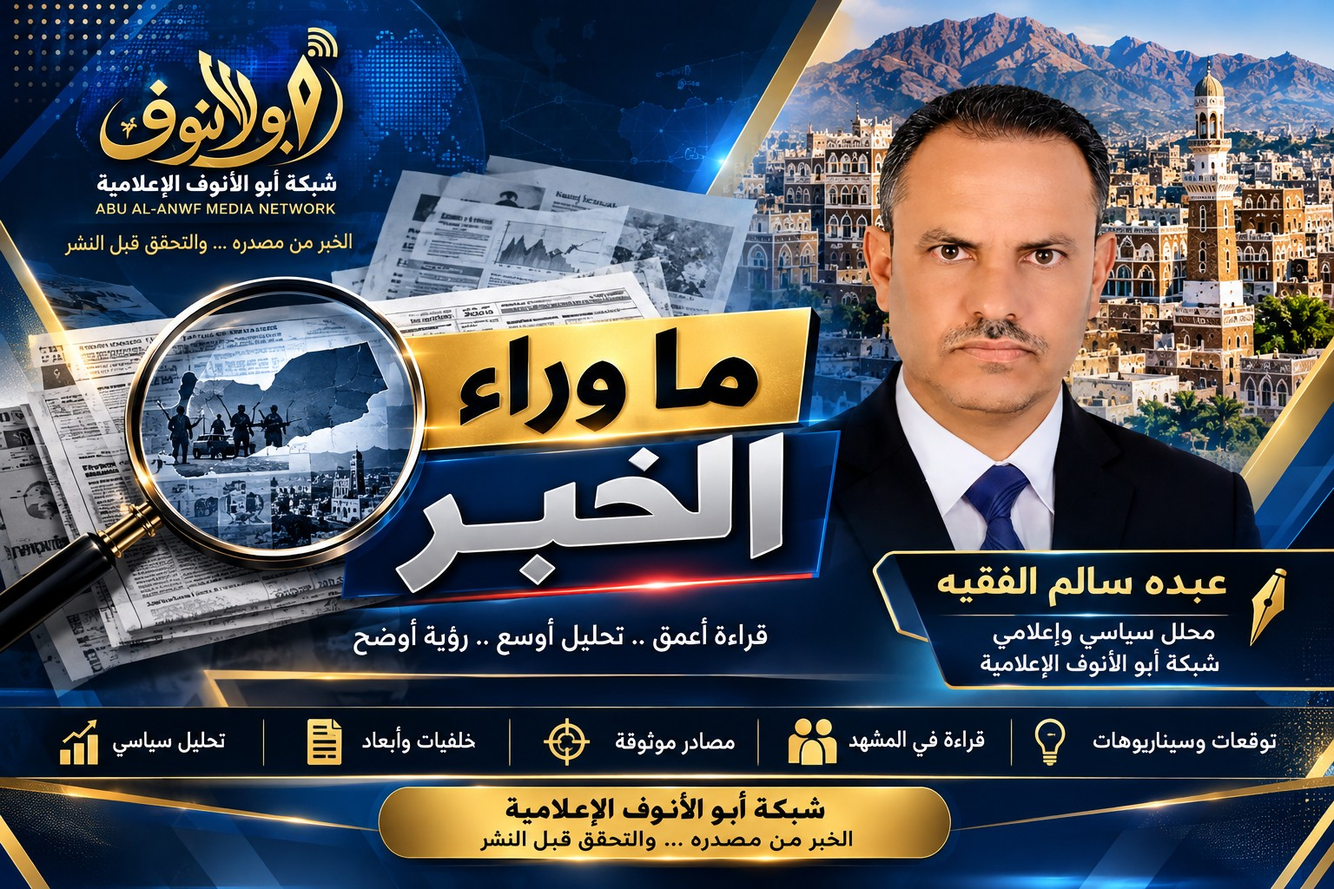
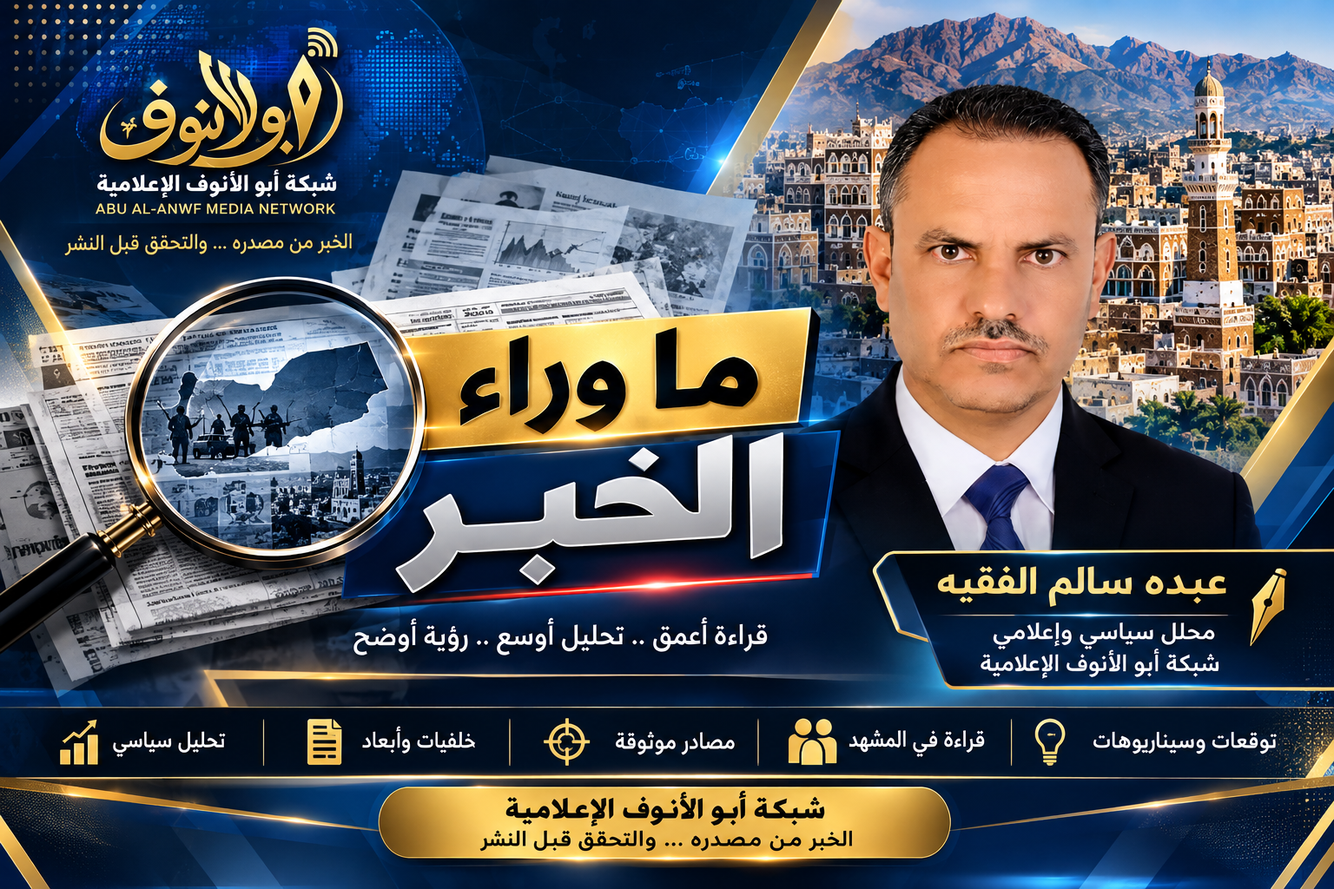
Add files via upload

diff --git a/index.html b/index.html
@@ -1,126 +1,67 @@
 <!doctype html>
 <html lang="ar" dir="rtl">
 <head>
-<meta charset="utf-8">
-<meta name="viewport" content="width=device-width,initial-scale=1">
+<meta charset="utf-8"><meta name="viewport" content="width=device-width,initial-scale=1">
+<title>النشرة اليمنية | الثلاثاء 13 أكتوبر 2026م — شبكة أبو الأنوف الإعلامية</title>
+<meta name="description" content="النشرة اليمنية اليومية لشبكة أبو الأنوف الإعلامية، الثلاثاء 13 أكتوبر 2026م، مع روابط المصادر وسجل التحقق.">
+<meta property="og:title" content="النشرة اليمنية | الثلاثاء 13 أكتوبر 2026م">
+<meta property="og:description" content="أبرز المستجدات اليمنية والمصادر الأصلية والتحقق التحريري.">
+<meta property="og:url" content="https://abwalanwf-wq.github.io/Yemen-news-2026-10-02/">
 <meta name="theme-color" content="#071a29">
-<meta name="description" content="النشرة اليمنية اليومية — شبكة أبو الأنوف الإعلامية: أخبار وتقارير وتحليلات ومصادرها الأصلية.">
-<title>النشرة اليمنية اليومية | شبكة أبو الأنوف الإعلامية</title>
 <style>
-*{box-sizing:border-box}
-body{margin:0;background:#f7f4ec;color:#172b38;font:16px/1.9 Tahoma,Arial,sans-serif}
-.top{background:linear-gradient(130deg,#071a29,#174a68);color:#fff;border-bottom:4px solid #d7b56d;padding:24px 4%}
-.head{max-width:1050px;margin:auto;display:flex;align-items:center;gap:18px}
-.head img{width:104px;height:104px;object-fit:contain;background:#fff;border-radius:12px;padding:4px}
-.head h1{font-size:clamp(24px,4vw,36px);margin:0}
-.head p{margin:3px 0;color:#ead9b1}
-.wrap{max-width:1050px;margin:28px auto;padding:0 4%}
-.hero,.card{background:white;border:1px solid #ded7c7;border-radius:13px;padding:22px;margin-bottom:18px}
-.hero{border-right:5px solid #d7b56d}
-.hero h2{color:#0b2639;margin:0 0 8px;font-size:clamp(22px,4vw,32px)}
-.muted{color:#5e6d75}
-.actions{display:flex;flex-wrap:wrap;gap:10px;margin-top:15px}
-.btn{display:inline-block;background:#0b2639;color:white;padding:10px 16px;border-radius:7px;text-decoration:none;font-weight:bold}
-.btn.gold{background:#8a682e}
-.grid{display:grid;grid-template-columns:repeat(2,minmax(0,1fr));gap:16px}
-.card h3{margin:0 0 8px;color:#0b2639}
-.card a{color:#795b26;font-weight:bold}
-.ad-static{display:block;width:100%;height:auto;max-width:1050px;object-fit:contain;border-radius:12px;border:2px solid #d7b56d;margin:18px auto}footer{background:#071a29;color:#eadfca;padding:20px 4%;text-align:center;border-top:3px solid #d7b56d}
-@media(max-width:650px){
-.grid{grid-template-columns:1fr}
-.head img{width:76px;height:76px}
-}
-</style>
-<script defer src="./ticker.js"></script>
-</head>
-<body>
-<header class="top">
-<div class="head">
-<img src="./abu-al-anouf-logo.png" alt="الشعار الأصلي لشبكة أبو الأنوف الإعلامية">
-<div>
-<h1>النشرة اليمنية اليومية</h1>
-<p>شبكة أبو الأنوف الإعلامية</p>
-<p>صوت الوعي والمسؤولية — وعي يصنع الفرق</p>
-</div>
-</div>
-</header>
-
-<main class="wrap">
-<section class="card" style="text-align:center"><img class="ad-static" src="./issue41-promo-network-fixed (7).jpg" alt="الإعلان الثابت لشبكة أبو الأنوف الإعلامية"></section>
-<section class="hero"><small>الثلاثاء 10 – الخميس 12 نوفمبر 2026م | العدد الجامع (42)</small><h2>العدد الجامع (42) — النشرة اليمنية اليومية</h2><p class="muted">حصاد الأيام الثلاثة، مع الأخبار والتقارير والتحليلات ومصادرها الأصلية.</p><div class="actions"><a class="btn gold" href="./issue-2026-11-10-12-42.html">فتح العدد الجامع 42</a><a class="btn" href="./edition-2026-11-10-12-42.html">النشرة الإلكترونية</a><a class="btn" href="./newspaper-2026-11-10-12-42.html">الصحيفة المصوّرة</a></div></section>
-<section class="hero"><small>الاثنين 9 نوفمبر 2026م | العدد الجامع (41)</small><h2>العدد الجامع — النشرة اليمنية اليومية</h2><p class="muted">تغطية العدد 41، مع الأخبار والتقارير والتحليلات والملفات الخاصة وروابط المصادر الأصلية.</p><div class="actions"><a class="btn gold" href="./issue-2026-11-09-41.html">فتح العدد الجامع 41</a><a class="btn" href="./edition-2026-11-09-41.html">النشرة الإلكترونية</a><a class="btn" href="./newspaper-2026-11-09-41.html">الصحيفة المصوّرة</a></div></section>
-
-<section class="hero">
-<small>العدد السابق | 5–6 نوفمبر 2026م | العدد الجامع (37–38)</small>
-<h2>العدد السابق (37–38)</h2>
-<p class="muted">يمكن الرجوع إلى العدد السابق من خلال الأرشيف.</p>
-<div class="actions"><a class="btn gold" href="./issue-2026-11-05-06-37-38.html">فتح العدد الجامع 37–38</a><a class="btn" href="./archive.html">أرشيف الأعداد</a></div>
-</section>
-<section class="hero">
-<h2>مشاركة العدد والتنقل</h2>
-<p class="muted">استخدم زر المشاركة لإرسال رابط العدد مباشرة عبر تطبيقات الهاتف المتاحة لديك.</p>
-<div class="actions">
-<button class="btn gold" id="shareIssue" type="button" style="border:0;cursor:pointer;font:inherit;font-weight:bold">مشاركة العدد من الهاتف</button>
-<a class="btn" href="./archive.html">أرشيف الأعداد</a>
-<a class="btn" href="./videos.html">مكتبة الفيديوهات</a>
-<a class="btn" href="./live.html">البث المباشر</a>
-</div><p id="shareStatus" class="muted" aria-live="polite"></p>
-</section>
-
-<section class="grid">
-<article class="card">
-<h3>النشرة الإلكترونية</h3>
-<p class="muted">الأخبار والتقارير والتحليلات مع إحالات المصادر الأصلية.</p>
-<a href="./edition-2026-11-09-41.html">فتح العدد الجامع 41 ←</a>
-</article>
-<article class="card" style="text-align:center">
-<h3>الصحيفة اليمنية المصوّرة — العدد 41</h3>
-<a href="./newspaper-2026-11-09-41.html" aria-label="فتح الصحيفة المصوّرة للعدد 41">فتح الصحيفة المصوّرة للعدد 41 كاملة ←</a>
-<p class="muted">تفتح صفحة الصحيفة المصوّرة الخاصة بالعدد مباشرة.</p>
-<a href="./newspaper-2026-11-09-41.html">فتح الصحيفة المصوّرة كاملة ←</a>
-</article>
-</section>
-
-<section class="card">
-<h3>المصادر والتحقق</h3>
-<p class="muted">تُنسب الأرقام والتقارير إلى الجهات التي أعلنتها، ويُفصل بين الخبر والتقدير والتحليل. افتح كل مادة للوصول إلى إحالتها الأصلية.</p>
-</section>
-
-<section class="card" style="text-align:center">
-<h3>ما وراء الخبر</h3>
-<h2>اليمن بين اتساع المواجهة العسكرية ومخاطر تدويل الصراع</h2>
-<p class="muted">قراءة في أثر إغلاق الطرق وتعطل وصول الغذاء والدواء والوقود، ومسؤولية تحويل التحذيرات الإنسانية إلى نتائج ملموسة.</p>
-<a class="btn gold" href="./edition-2026-11-09-41.html#analysis">اقرأ ما وراء الخبر — العدد 41</a>
-</section>
-
-<section class="card" style="text-align:center">
-<h3>دليل المنصات ومشاركة العدد</h3>
-<p class="muted">روابط الدليل تفتح قنوات الشبكة، وأزرار المشاركة ترسل رابط العدد 41 إلى المنصة المختارة.</p>
-<div class="actions" style="justify-content:center">
-<a class="btn" href="https://www.youtube.com/@%D8%A3%D8%A8%D9%88%D8%A7%D9%84%D8%A7%D9%86%D9%88%D9%81" target="_blank" rel="noopener">دليل يوتيوب — قناة الشبكة</a>
-<a class="btn" href="https://t.me/+f0g8Bzx2szJiYmI0" target="_blank" rel="noopener">دليل تيليجرام — قناة الشبكة</a>
-<a class="btn" href="./videos.html">مكتبة الفيديوهات</a>
-<a class="btn" href="./live.html">البث المباشر</a>
-<a class="btn" href="./archive.html">الأرشيف</a>
-<a class="btn" href="./index.html">الموقع الرسمي</a>
-</div>
-<hr style="border:0;border-top:1px solid #ded7c7;margin:18px 0">
-<h3>شارك العدد 41 مباشرة</h3>
-<div class="actions" style="justify-content:center">
-<a class="btn gold" href="https://wa.me/?text=%D8%A7%D9%84%D9%86%D8%B4%D8%B1%D8%A9%20%D8%A7%D9%84%D9%8A%D9%85%D9%86%D9%8A%D8%A9%20%D8%A7%D9%84%D9%8A%D9%88%D9%85%D9%8A%D8%A9%20%E2%80%94%20%D8%A7%D9%84%D8%B9%D8%AF%D8%AF%2041%20https%3A%2F%2Fabwalanwf-wq.github.io%2Fabu-al-anouf%2Fissue-2026-11-09-41.html" target="_blank" rel="noopener">مشاركة واتساب</a>
-<a class="btn" href="https://www.facebook.com/sharer/sharer.php?u=https%3A%2F%2Fabwalanwf-wq.github.io%2Fabu-al-anouf%2Fissue-2026-11-09-41.html" target="_blank" rel="noopener">مشاركة فيسبوك</a>
-<a class="btn" href="https://t.me/share/url?url=https%3A%2F%2Fabwalanwf-wq.github.io%2Fabu-al-anouf%2Fissue-2026-11-09-41.html&text=%D8%A7%D9%84%D8%B9%D8%AF%D8%AF%2041%20%E2%80%94%20%D8%A7%D9%84%D9%86%D8%B4%D8%B1%D8%A9%20%D8%A7%D9%84%D9%8A%D9%85%D9%86%D9%8A%D8%A9" target="_blank" rel="noopener">مشاركة تيليجرام</a>
-<a class="btn" href="https://twitter.com/intent/tweet?text=%D8%A7%D9%84%D9%86%D8%B4%D8%B1%D8%A9%20%D8%A7%D9%84%D9%8A%D9%85%D9%86%D9%8A%D8%A9%20%D8%A7%D9%84%D9%8A%D9%88%D9%85%D9%8A%D8%A9%20%E2%80%94%20%D8%A7%D9%84%D8%B9%D8%AF%D8%AF%2041&url=https%3A%2F%2Fabwalanwf-wq.github.io%2Fabu-al-anouf%2Fissue-2026-11-09-41.html" target="_blank" rel="noopener">مشاركة منصة X</a>
-<button class="btn" id="shareIssue" type="button" style="border:0;cursor:pointer;font:inherit;font-weight:bold">مشاركة عبر الهاتف</button>
-</div><p id="shareStatus" class="muted" aria-live="polite"></p>
-</section>
-</main>
-
-<footer>
-شبكة أبو الأنوف الإعلامية — النشرة اليمنية اليومية<br>
-الخبر من مصدره… والتحقق قبل النشر
-</footer>
-<script>
-(function(){const b=document.getElementById('shareIssue');const status=document.getElementById('shareStatus');if(!b)return;const url='https://abwalanwf-wq.github.io/abu-al-anouf/issue-2026-11-09-41.html';const data={title:'النشرة اليمنية اليومية — العدد 41',text:'شبكة أبو الأنوف الإعلامية — العدد الجامع 41',url};b.addEventListener('click',async()=>{try{if(navigator.share){await navigator.share(data);status.textContent='تم فتح قائمة المشاركة في هاتفك.';}else if(navigator.clipboard&&navigator.clipboard.writeText){await navigator.clipboard.writeText(url);status.textContent='نُسخ رابط العدد؛ يمكنك لصقه في أي تطبيق.';}else{status.textContent='انسخ رابط العدد من شريط العنوان لمشاركته.';}}catch(e){if(e&&e.name==='AbortError')return;status.textContent='تعذرت المشاركة المباشرة؛ يمكنك نسخ رابط العدد ومشاركته.';}});})();
-</script></body>
-</html>
+:root{--navy:#071a29;--blue:#153d59;--gold:#e5bd42;--red:#a21d2b;--paper:#f4f5f7;--ink:#17232e}
+*{box-sizing:border-box}html{scroll-behavior:smooth;scroll-padding-top:12px}
+body{margin:0;background:var(--navy);color:var(--ink);font-family:Arial,Tahoma,sans-serif;line-height:1.9}
+.wrap{max-width:960px;margin:auto;padding:12px}
+.hero,.card{background:var(--paper);border:3px solid var(--gold);border-radius:16px;padding:18px;margin:14px 0}
+.hero{text-align:center;background:var(--blue);color:#fff}.hero h1{color:#f3cb54;margin:4px;font-size:clamp(1.6rem,5vw,2.3rem)}
+.card h2{color:var(--red);margin-top:0}a{color:#075c9b;overflow-wrap:anywhere}
+.btn{display:inline-block;background:var(--blue);color:#fff!important;text-decoration:none;padding:9px 13px;margin:5px 2px;border-radius:10px;font-weight:bold;border:0;cursor:pointer;font:inherit}
+.tag{display:inline-block;color:#765300;background:#fff0bf;padding:2px 10px;border-radius:20px}
+.status{background:#fff4d4;border-right:5px solid var(--gold);padding:12px;border-radius:8px}
+footer{text-align:center;background:var(--blue);color:#fff;padding:18px;border:2px solid var(--gold);border-radius:14px;margin:16px 0}
+li{margin:8px 0}.qr{display:block;width:220px;height:220px;max-width:75%;object-fit:contain;margin:12px auto;background:#fff;padding:8px;border-radius:8px}
+.poster{border:2px solid var(--gold);background:linear-gradient(145deg,#071a29,#153d59);color:white;text-align:center;border-radius:14px;padding:22px}
+.poster h2{color:#f3cb54}.contents a{display:block}
+@media(max-width:600px){.wrap{padding:7px}.hero,.card{padding:13px}.btn{display:block;text-align:center}}
+@media print{body{background:white}.wrap{max-width:none}.btn,.shareline{display:none!important}.hero,.card,footer{break-inside:avoid}}
+</style></head><body><aside id="archive-unavailable" style="background:#fff3cd;color:#17232e;padding:10px;text-align:center;font:16px/1.8 Tahoma">نسخة محفوظة من الأرشيف — <a href="../../../archive.html">العودة إلى الأرشيف الكامل</a></aside><main class="wrap" id="top">
+<header class="hero"><h1>النشرة اليمنية اليومية</h1><strong>الثلاثاء 13 أكتوبر 2026م</strong>
+<p>مستجدات اليمن | الشأن الإنساني | أخبار محلية وإقليمية | تحقق تحريري</p>
+<p><b>شبكة أبو الأنوف الإعلامية</b><br>الخبر من مصدره… والتحقق قبل النشر</p><p>إعداد وتحرير: عبده سالم الفقيه</p></header>
+<section class="card poster"><h2>موجز اليمن اليوم</h2><p><strong>الثلاثاء 13 أكتوبر 2026م</strong></p><p>أخبار موثقة • تفاصيل ومصادر • قراءة وتحليل</p><p><b>شبكة أبو الأنوف الإعلامية</b></p><p>عبده سالم الفقيه</p></section>
+<section class="card"><h2>افتتاحية العدد</h2><p>تتابع نشرة اليوم أبرز التطورات المنشورة بشأن التصعيد الإقليمي المرتبط باليمن، والتطورات الميدانية التي أوردتها وسائل إعلام يمنية، إلى جانب الملفات الإنسانية والمحلية. تُنسب التصريحات والأرقام إلى الجهات التي أعلنتها أو إلى الوسائل التي نقلتها، ولا تُعرض الادعاءات المتنازع عليها بوصفها حقائق مستقلة محسومة.</p><p class="status"><b>تنبيه تحريري:</b> هذه النشرة تجمع تقارير منشورة حتى تاريخ الإصدار. قد تتغير المعلومات مع ورود تحديثات جديدة، ويجب الرجوع إلى المصادر الأصلية قبل إعادة تداول الأرقام أو التصريحات.</p></section>
+<section class="card contents"><h2>فهرس الأخبار — انتقل إلى التفاصيل</h2>
+<a class="btn" href="#riyadh">1. اعتراض صاروخ أُعلن عن إطلاقه باتجاه الرياض</a>
+<a class="btn" href="#khamis">2. تقرير عن اعتراض صاروخين باتجاه خميس مشيط</a>
+<a class="btn" href="#taiz">3. مستجدات المواجهات والأوضاع الإنسانية في تعز</a>
+<a class="btn" href="#migrants">4. حصيلة مأساة قارب المهاجرين قبالة جيبوتي</a>
+<a class="btn" href="#weather">5. تنبيه جوي بشأن الأمطار في عدد من المحافظات</a>
+<a class="btn" href="#analysis">6. ما وراء الخبر | قراءة أبو الأنوف</a></section>
+<article class="card" id="riyadh"><span class="tag">خبر إقليمي</span><h2>تقارير عن اعتراض صاروخ أُعلن عن إطلاقه باتجاه الرياض</h2>
+<p>أوردت وسائل إعلام عربية، الثلاثاء 13 أكتوبر، أن المتحدث باسم التحالف أعلن اعتراض وتدمير صاروخ باليستي قال إنه أُطلق باتجاه الرياض. ونقلت التغطية أيضًا إعلانًا حوثيًا عن استهداف المطار، بينما تبقى تفاصيل الحادثة والمسؤولية عنها منسوبة إلى الجهات التي أصدرت التصريحات والتقارير الناقلة.</p>
+<p class="status"><b>حالة التحقق:</b> خبر منقول عن تصريحات رسمية وتقارير صحفية؛ لا تنسب النشرة هذه التصريحات إلى تحقق ميداني مستقل.</p><h3>المصادر</h3><ul><li><a href="https://www.alaraby.co.uk/politics/اليمن-الحوثيون-يستهدفون-الرياض-وغارات-على-صنعاء-والجوف" target="_blank" rel="noopener">العربي الجديد — تقرير 13 أكتوبر 2026</a></li><li><a href="https://www.reuters.com/world/middle-east/yemens-houthis-renew-warning-over-saudi-airports-after-deadly-riyadh-attack-2026-10-11/" target="_blank" rel="noopener">رويترز — تغطية الهجمات على مطار الرياض، 11 أكتوبر</a></li></ul><a class="btn" href="#top">العودة إلى فهرس النشرة ↑</a></article>
+<article class="card" id="khamis"><span class="tag">خبر محلي / إقليمي</span><h2>يمن مونيتور: التحالف يعلن اعتراض صاروخين باتجاه خميس مشيط</h2>
+<p>نشر موقع يمن مونيتور في 13 أكتوبر خبرًا ينقل إعلان المتحدث باسم التحالف اعتراض وتدمير صاروخين باليستيين قالت القوات إنها أُطلقت باتجاه خميس مشيط. وتورد النشرة الخبر بصيغة الإسناد إلى الجهة المعلنة، من دون إضافة تفاصيل غير واردة في المصدر.</p><p class="status"><b>حالة التحقق:</b> تصريح منقول في تقرير صحفي؛ يُرجى مراجعة المصدر لأي تحديث لاحق.</p><h3>المصدر</h3><ul><li><a href="https://www.yemenmonitor.com/news" target="_blank" rel="noopener">يمن مونيتور — قسم الأخبار، 13 أكتوبر 2026</a></li></ul><a class="btn" href="#top">العودة إلى فهرس النشرة ↑</a></article>
+<article class="card" id="taiz"><span class="tag">الشأن اليمني</span><h2>تعز والجبهات: تقارير عن استمرار المواجهات ومخاوف إنسانية</h2>
+<p>أوردت تقارير يمنية خلال الأيام الأخيرة استمرار المواجهات في محاور من تعز ولحج، فيما حذرت تغطيات صحفية من تدهور الاحتياجات الإنسانية، بما في ذلك إمدادات الصحة والمياه والوقود. وتختلف التفاصيل بحسب تاريخ كل تقرير والجهة الناقلة؛ لذلك لا تُجمع الأرقام أو الادعاءات الميدانية المتباينة في حصيلة واحدة دون توثيق مستقل.</p><p class="status"><b>حالة التحقق:</b> ملخص للتغطيات المنشورة، وليس بيانًا ميدانيًا مستقلًا أو تحديثًا لحظيًا.</p><h3>المصادر</h3><ul><li><a href="https://www.yemenmonitor.com/" target="_blank" rel="noopener">يمن مونيتور — الأخبار المحلية</a></li><li><a href="https://www.aljazeera.com/where/yemen/" target="_blank" rel="noopener">الجزيرة — صفحة أخبار اليمن</a></li><li><a href="https://osesgy.unmissions.org/" target="_blank" rel="noopener">مكتب المبعوث الخاص للأمين العام للأمم المتحدة إلى اليمن</a></li></ul><a class="btn" href="#top">العودة إلى فهرس النشرة ↑</a></article>
+<article class="card" id="migrants"><span class="tag">ملف إنساني</span><h2>مأساة قارب المهاجرين قبالة جيبوتي: حصيلة منسوبة إلى تقارير دولية</h2>
+<p>تحدثت تقارير منشورة في 11 و12 أكتوبر عن انقلاب قارب كان يحمل مهاجرين في طريقه من جيبوتي إلى اليمن، وأوردت حصيلة مرتفعة للوفيات والمفقودين والناجين نقلًا عن بيانات إنسانية. وتظل الأرقام مرتبطة بتاريخ التقرير والجهة التي نقلتها، وقد تتغير مع استمرار أعمال البحث والتحديث.</p><p class="status"><b>حالة التحقق:</b> حصيلة إنسانية منسوبة إلى التقارير والمصادر التي نقلت بيانات المنظمة الدولية للهجرة؛ ينبغي مراجعة آخر تحديث قبل إعادة نشر رقم محدد.</p><h3>المصادر</h3><ul><li><a href="https://www.reuters.com/world/africa/109-migrants-including-15-children-dead-after-boat-djibouti-yemen-capsizes-un-2026-10-11/" target="_blank" rel="noopener">رويترز — حادثة قارب المهاجرين، 11 أكتوبر 2026</a></li><li><a href="https://apnews.com/article/a9e324ca36a7d9dee0e745c736c8aa95" target="_blank" rel="noopener">أسوشيتد برس — تغطية إنسانية، 12 أكتوبر 2026</a></li></ul><a class="btn" href="#top">العودة إلى فهرس النشرة ↑</a></article>
+<article class="card" id="weather"><span class="tag">خدمات عامة</span><h2>تحذير جوي من أمطار رعدية متفاوتة الشدة</h2>
+<p>نشرت قناة اليمن الفضائية، نقلًا عن مركز التنبؤات الجوية والإنذار المبكر، تحذيرًا من حالة ماطرة خلال الفترة 11–13 أكتوبر 2026، مع احتمال هطول أمطار رعدية متفاوتة الشدة وقد تكون غزيرة محليًا في عدد من المحافظات. يُنصح بمتابعة التحديثات الرسمية الصادرة عن الجهات المختصة.</p><p class="status"><b>حالة التحقق:</b> تحذير منقول عن جهة الأرصاد كما نشرته قناة اليمن الفضائية؛ راجع المصدر لمعرفة المحافظات والتحديثات الدقيقة.</p><h3>المصدر</h3><ul><li><a href="https://yementv.tv/" target="_blank" rel="noopener">قناة اليمن الفضائية — الموقع الرسمي</a></li></ul><a class="btn" href="#top">العودة إلى فهرس النشرة ↑</a></article>
+<section class="card" id="analysis"><h2>ما وراء الخبر | أبو الأنوف</h2>
+<figure style="margin:0 0 18px;text-align:center">
+<img src="ma_waraa_alkhabar_abualanwf.png" alt="هوية ركن ما وراء الخبر — أبو الأنوف، عبده سالم الفقيه" style="display:block;width:100%;height:auto;border:2px solid #e5bd42;border-radius:14px" loading="lazy">
+<figcaption style="font-size:.95rem;color:#46515c;margin-top:7px">إعداد وتقديم: عبده سالم الفقيه — قراءة أعمق… تحليل أوسع… رؤية أوضح.</figcaption>
+</figure><p>تُظهر التغطيات المنشورة تداخل ثلاثة مسارات ينبغي متابعتها بحذر: التصعيد الإقليمي وما قد يترتب عليه من مخاطر على المدنيين والطيران والبنية التحتية، واستمرار الضغوط الإنسانية داخل اليمن، والحاجة إلى معلومات ميدانية دقيقة ومتعددة المصادر. وفي مثل هذه الظروف، تصبح سرعة التحقق ونسبة كل تصريح إلى مصدره شرطًا أساسيًا للمهنية، لا تفصيلًا شكليًا.</p><p>هذه فقرة تحليلية تحريرية وليست خبرًا مستقلًا أو توقعًا محسومًا. وأي استنتاج بشأن اتجاهات التصعيد يظل مشروطًا بتطورات الأيام المقبلة وبما تنشره المصادر الموثوقة.</p></section>
+<section class="card"><h2>سجل التحقق التحريري</h2><ul><li>التصريحات العسكرية والسياسية منسوبة إلى الجهات التي أعلنتها أو الوسائل التي نقلتها.</li><li>لم تُضف أرقام ميدانية غير موثقة إلى حصيلة مستقلة.</li><li>المعلومات الإنسانية مرتبطة بتاريخ التقارير وقد تتغير.</li><li>يُنصح بفتح المصدر الأصلي قبل إعادة نشر الأرقام أو التصريحات.</li></ul></section>
+<section class="card"><h2>مشاركة النشرة ومتابعة الشبكة</h2><p>شارك رابط العدد الموحد أو انسخ الرابط لإرساله إلى الآخرين.</p>
+<div class="shareline"><button class="btn" onclick="sharePage()">مشاركة النشرة ↗</button><button class="btn" onclick="copyPage()">نسخ رابط النشرة</button><a class="btn" href="../../../index.html">فتح الموقع الرئيسي</a></div>
[1 lines of base64/hex data omitted]
+<h3>روابط التواصل</h3><a class="btn" href="https://www.facebook.com/share/1Lz4TEpRyU/" target="_blank" rel="noopener">فيسبوك ↗</a><a class="btn" href="https://whatsapp.com/channel/0029VaiSgc9EAKW8zgRiKr02" target="_blank" rel="noopener">قناة واتساب ↗</a><a class="btn" href="https://x.com/abdusalem812" target="_blank" rel="noopener">منصة X ↗</a><a class="btn" href="https://youtube.com/channel/UCrnSmnjIMGL9h0CvWc9f_hw" target="_blank" rel="noopener">يوتيوب ↗</a></section>
+<footer>شبكة أبو الأنوف الإعلامية<br>الخبر من مصدره… والتحقق قبل النشر<br><small>نشرة الثلاثاء 13 أكتوبر 2026م</small><p><a href="editions/2026-10-12.html" style="color:#f3cb54">نشرة الاثنين 12 أكتوبر 2026م</a></p><a href="#top" style="color:#f3cb54">العودة إلى أعلى النشرة ↑</a></footer>
+</main><script>
+const pageUrl='https://abwalanwf-wq.github.io/Yemen-news-2026-10-02/';
+async function sharePage(){const d={title:document.title,text:'النشرة اليمنية اليومية — شبكة أبو الأنوف الإعلامية، الثلاثاء 13 أكتوبر 2026م',url:pageUrl};try{if(navigator.share){await navigator.share(d)}else{await copyPage()}}catch(e){if(e.name!=='AbortError'){await copyPage()}}}
+async function copyPage(){try{await navigator.clipboard.writeText(pageUrl);alert('تم نسخ رابط النشرة.')}catch(e){prompt('انسخ رابط النشرة:',pageUrl)}}
+</script></body></html>
